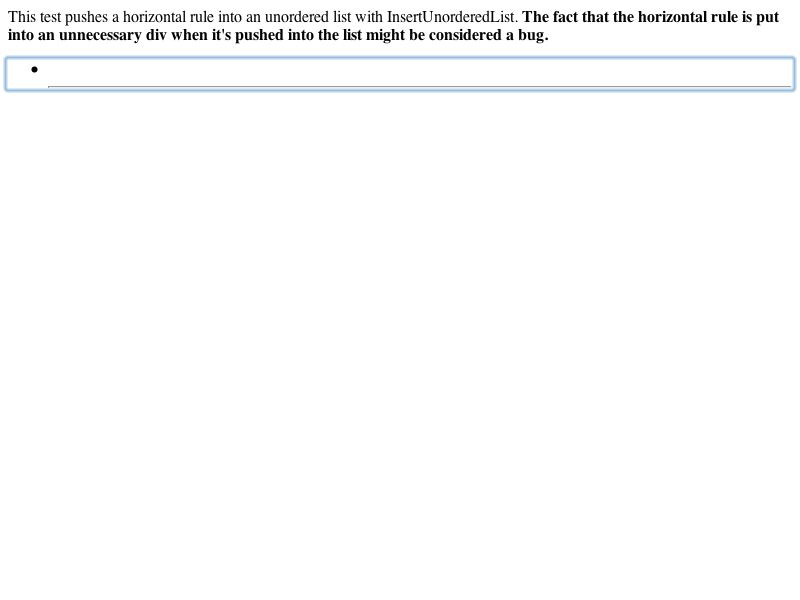
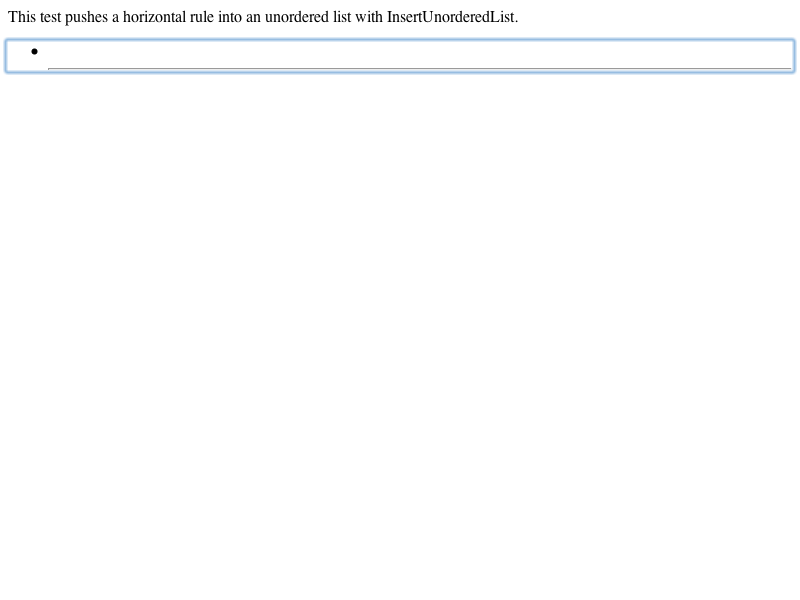
LayoutTests:
Reviewed by Justin

        * editing/execCommand/create-list-from-range-selection-expected.checksum:
        * editing/execCommand/create-list-from-range-selection-expected.png:
        * editing/execCommand/create-list-from-range-selection-expected.txt:
        * editing/execCommand/create-list-from-range-selection.html:
        This test's results were broken by using rangeCompliantEquivalent at
        appropriate places in CompositeEditCommand.cpp::moveParagraphs(), presumably
        by revealing a different bug. Justin is going to look into this; for now I've
        updated the result so that it won't appear to fail for others.
        
        * editing/execCommand/create-list-with-hr-expected.checksum:
        * editing/execCommand/create-list-with-hr-expected.png:
        * editing/execCommand/create-list-with-hr-expected.txt:
        * editing/execCommand/create-list-with-hr.html:
        This test's results were improved by using rangeCompliantEquivalent at
        appropriate places in CompositeEditCommand.cpp::moveParagraphs() -- it used
        to create an extra <div>, and now it does not.

WebCore:

        Reviewed by Justin

        With Darin, fixed a problem in the Range constructors found while implementing grammar checking.
        That revealed another problem in the layout tests involving bad parameters passed to the Range
        constructors.
[…]

Changed region(s): [[0.0, 0.0, 1.0, 0.18]]

diff --git a/editing/execCommand/create-list-from-range-selection.html b/editing/execCommand/create-list-from-range-selection.html
@@ -2,7 +2,10 @@
 if (window.layoutTestController)
      layoutTestController.dumpEditingCallbacks();
 </script>
-<p>This tests Insert{Un}OrderedList on a range selection that contains a mix of list and non-list content.</p>
+<p>This tests Insert{Un}OrderedList on a range selection that contains a mix of list and non-list content.
+<b>This test used to end with a flat list from 1 to 6, with a selection extending from just before the last "o"
+in "1. asdfoo" to just after the "a" in "6. baz". This result changed with John's rangeCompliantEquivalent
+fixes in CompositeEditCommand::moveParagraphs on 11/30/2006.</b></p>
 <div id="test" contenteditable="true">asd<span id="start">foo</span><br><ul><li>bar</li></ul>baz<br>foo<ol><li>bar</li></ol><span id="end">baz</span></div>
 <script>
 var s = window.getSelection();

diff --git a/editing/execCommand/create-list-with-hr.html b/editing/execCommand/create-list-with-hr.html
@@ -2,7 +2,7 @@
 if (window.layoutTestController)
      layoutTestController.dumpEditingCallbacks();
 </script>
-<p>This test pushes a horizontal rule into an unordered list with InsertUnorderedList. <b>The fact that the horizontal rule is put into an unnecessary div when it's pushed into the list might be considered a bug.</b></p>
+<p>This test pushes a horizontal rule into an unordered list with InsertUnorderedList.</p>
 <div contenteditable="true" id="div"><hr></div>
 
 <script>
